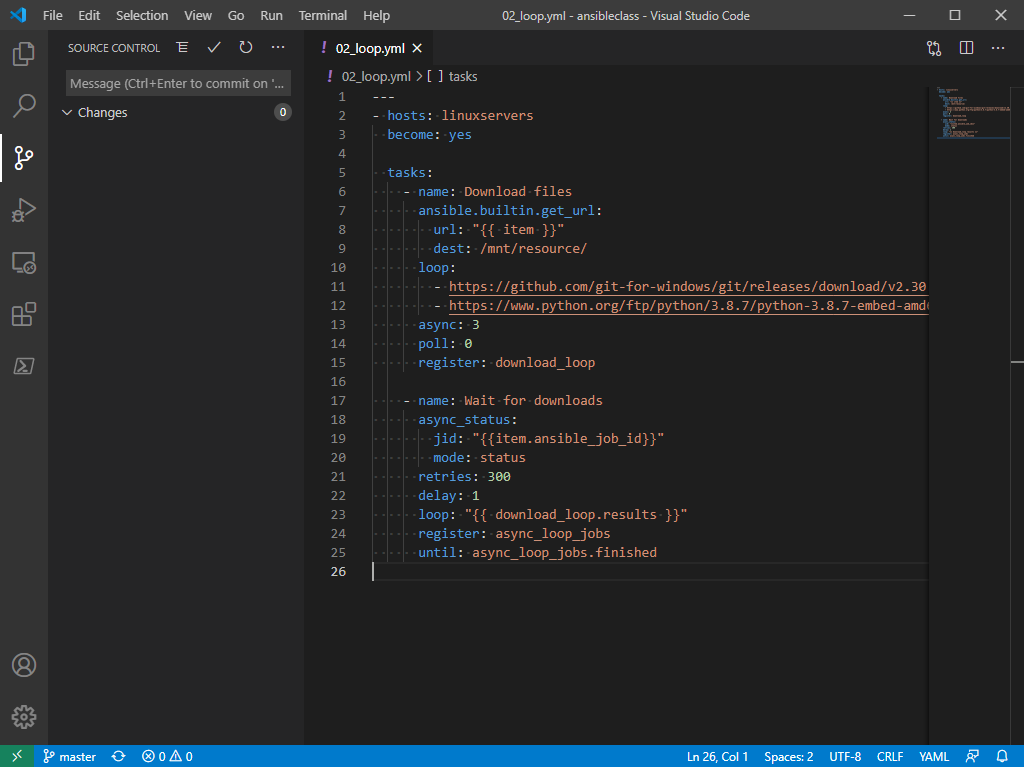
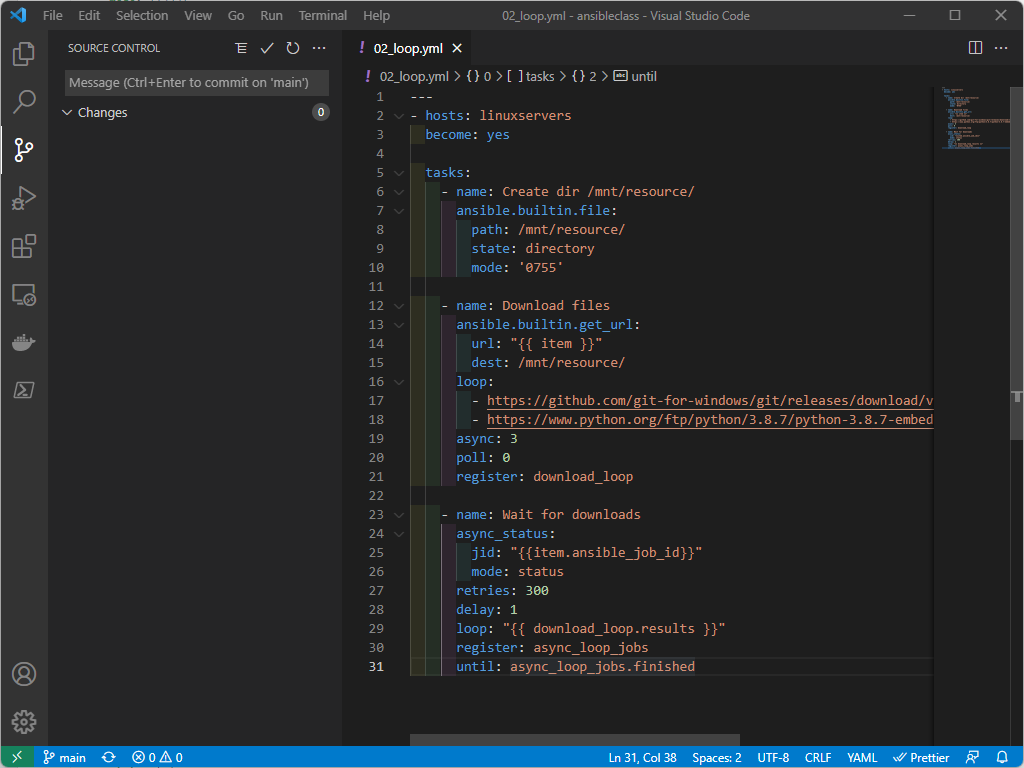
lab3 task 6

diff --git a/lab03/lab3.md b/lab03/lab3.md
@@ -560,6 +560,12 @@ __Type:__
   become: yes
 
   tasks:
+    - name: Create dir /mnt/resource/
+      ansible.builtin.file:
+        path: /mnt/resource/
+        state: directory
+        mode: '0755'
+
     - name: Download files
       ansible.builtin.get_url:
         url: "{{ item }}"
